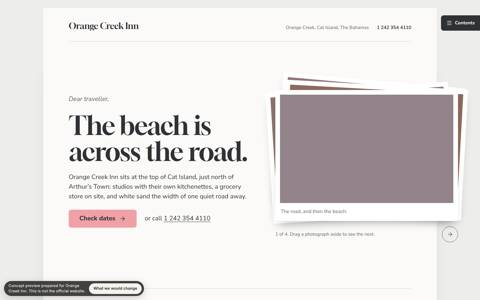
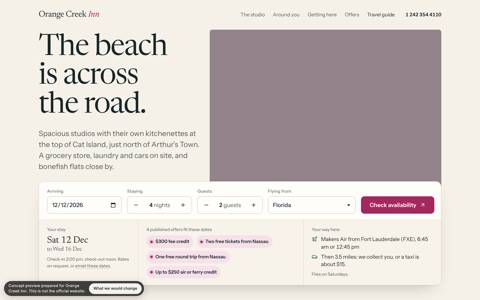
site: orange-creek-inn (built)

diff --git a/factory/briefs/orange-creek-inn.md b/factory/briefs/orange-creek-inn.md
@@ -65,3 +65,6 @@ Specials and flight schedules change; Western Air days not listed; studio count 
 
 ## Build note (2026-11-21)
 Built as storyboarded, with one change: every print stays at 548 px or less (the aerial is not shown at 880), laid down the right-hand margin of the sheet, because the sources are 900 px wide.
+
+## Jobspec rebuild (2026-11-21)
+Rebuilt to the approved job spec (factory/jobspecs/orange-creek-inn.md): the letter metaphor is gone. Screen 1 is the road-and-beach photo with a live route inset and the dates bar (arrival, nights, guests, flying from, Check availability on BahamaGo); under it the offers that fit light up, with the arrival-day flight and the last 3.5 miles. Then the studio, the island around you (aerial plus a drag strip of 8 photos), getting here (Natural Earth map, origin switch, costs), all six offers checked against the dates, and contact. Travel guide page keeps day picker, both routes and guest questions. Fonts Newsreader + Instrument Sans; sea glass ground, bougainvillea accent.
